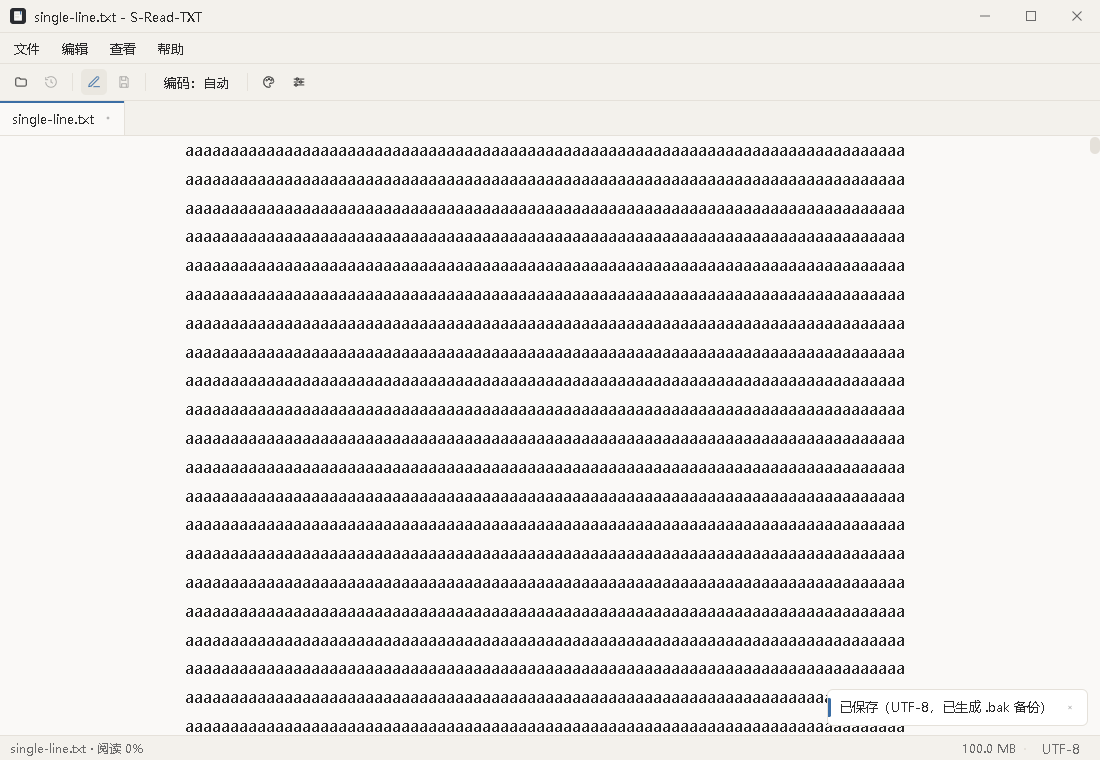
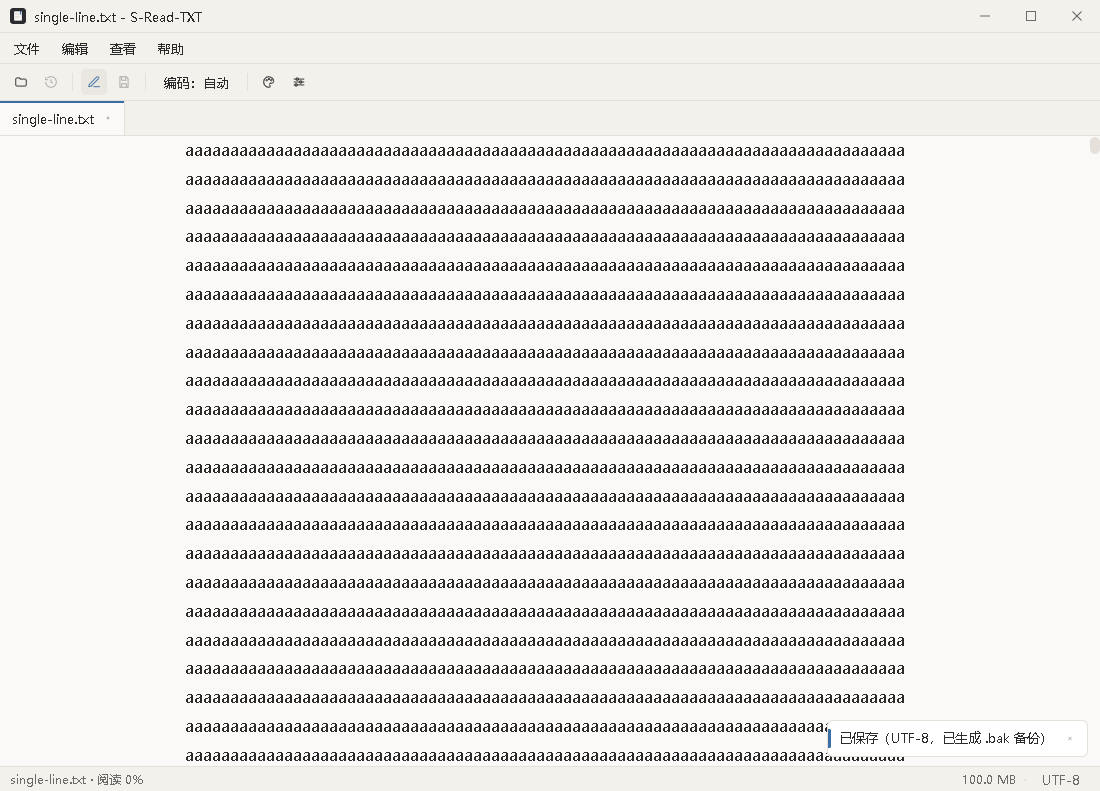
docs(ai): 6f 全量自检 18/18 与回归修复记录

diff --git a/docs/plan/progress.md b/docs/plan/progress.md
@@ -235,3 +235,12 @@
 ### 6e E2E 扩展（本切片）
 - `smoke-settings.mjs` 修正与增强：默认页签已改为「常规」→ 快捷键操作前显式切换页签（S1/S9/reopenSettings）；**首启引导模态会挂起全局快捷键** → 按真实用户路径勾选「不再显示」并关闭（S8/S9/S11/S12 恢复）；`openPath` 改 fire-and-forget 防 WebView2 `Promise was collected`；S13 改为真实断言（常规页签字段 / 快捷键行数 / **字号修改实时应用到主窗口**）→ **27/27**。
 - `verify-all.mjs` 新增两步：`E2E 会话恢复（smoke-session）`、`E2E 数据目录引导（smoke-datadir）`；报告仍落盘 `docs/verify/latest.md`。
+
+### 6f 全量自检与回归修复（本切片）
+- 全量自检 **18/18 通过**（189.0s；报告 `docs/verify/latest.md`）——12 套 E2E + 6 个前置门禁全绿（含 100MB 长行 9/9）。
+- **修复真实缺陷（渲染层）**：`ReaderView` 排版变更 effect 内 `version += 1` 同时读写同一 `$state`，被 Svelte 5 依赖收集后自触发死循环（实测每帧数千次，行文本不渲染/渲染管线被持续冲刷）；修复 = `untrack` 包裹内部写入。用临时探针（get_rows 载荷/缓存/计数）二分定位到渲染层后取舍证据，调试钩子已移除。
+- **测试基建（CDP/WebView2 兼容）**：
+  - 新增共享 `openPathDone()`：WebView2 对「直接调用函数返回的 Promise」经 CDP `awaitPromise` 必报 “Promise was collected”（2026-10-02 起实测必现）；10 个套件统一迁移 + 旧 `smoke.mjs` 同步。
+  - 新增共享 `dismissOnboarding()`：首启引导模态会挂起全局快捷键并遮挡 `[role="dialog"]` 选择器（8 个套件因此失败）；按真实用户路径关闭（勾选「不再显示」+ 开始使用）。
+  - `smoke-buttons` D9/D12 的“灰态”断言更新为实测行为（字号±/快捷键…/关于页签，**30/30**）；`smoke-settings` S13 改为真实页签/实时排版断言并修复单引号模板比较 bug（**27/27**）。
+- 证据产物已刷新：`docs/verify/latest.md`、各阶段截图（4b/4c/5）。

diff --git a/docs/verify/latest.md b/docs/verify/latest.md
@@ -1,25 +1,27 @@
 # 全量自检报告（最新一次）
 
-- 时间（UTC）：2026-10-02T09:19:48.477Z
-- 提交：c74444e（未提交变更 4 项）
-- 结果：**16/16 通过**，总耗时 282.5s
+- 时间（UTC）：2026-10-02T10:41:25.354Z
+- 提交：09edc26（未提交变更 22 项）
+- 结果：**18/18 通过**，总耗时 189.0s
 
 | 步骤 | 结果 | 耗时(s) |
 | --- | --- | --- |
-| 编码自检 | ✅ | 0.2 |
-| svelte-check | ✅ | 10.2 |
-| vitest 单测 | ✅ | 3.5 |
-| cargo fmt 检查 | ✅ | 1.1 |
-| cargo test（全目标） | ✅ | 12.9 |
-| Tauri 构建（debug） | ✅ | 16.8 |
-| E2E 编辑（smoke-edit） | ✅ | 9.3 |
-| E2E 查找（smoke-find） | ✅ | 17.2 |
-| E2E 输入法（smoke-ime） | ✅ | 12.0 |
-| E2E 多语言（smoke-i18n） | ✅ | 20.4 |
-| E2E 标题栏（smoke-titlebar） | ✅ | 12.3 |
-| E2E 全按钮（smoke-buttons） | ✅ | 36.3 |
-| E2E 设置窗口（smoke-settings） | ✅ | 41.9 |
-| E2E 快捷键（smoke-shortcuts） | ✅ | 27.2 |
-| E2E 对抗（smoke-abuse） | ✅ | 27.8 |
-| E2E 100MB 长行（smoke-longline） | ✅ | 32.6 |
+| 编码自检 | ✅ | 0.1 |
+| svelte-check | ✅ | 6.8 |
+| vitest 单测 | ✅ | 2.7 |
+| cargo fmt 检查 | ✅ | 0.6 |
+| cargo test（全目标） | ✅ | 8.9 |
+| Tauri 构建（debug） | ✅ | 13.0 |
+| E2E 编辑（smoke-edit） | ✅ | 2.2 |
+| E2E 查找（smoke-find） | ✅ | 4.8 |
+| E2E 输入法（smoke-ime） | ✅ | 2.9 |
+| E2E 多语言（smoke-i18n） | ✅ | 7.5 |
+| E2E 标题栏（smoke-titlebar） | ✅ | 3.1 |
+| E2E 全按钮（smoke-buttons） | ✅ | 28.5 |
+| E2E 设置窗口（smoke-settings） | ✅ | 27.8 |
+| E2E 快捷键（smoke-shortcuts） | ✅ | 23.5 |
+| E2E 会话恢复（smoke-session） | ✅ | 9.5 |
+| E2E 数据目录引导（smoke-datadir） | ✅ | 2.8 |
+| E2E 对抗（smoke-abuse） | ✅ | 26.8 |
+| E2E 100MB 长行（smoke-longline） | ✅ | 17.4 |
 

diff --git a/CHANGELOG.md b/CHANGELOG.md
@@ -46,4 +46,5 @@
 - 菜单「粘贴」触发 WebView 剪贴板权限弹窗且读取失败：复制/剪切/粘贴改经官方 `tauri-plugin-clipboard-manager`（Rust 侧读写，无浏览器弹窗；依赖精确锁定）
 - 「localhost 拒绝连接」空白页（已根治）：Tauri 以 `custom-protocol` feature 区分打包（内嵌资源）与开发（连 `http://localhost:1420`）模式，裸 `cargo build`/`cargo test` 未启用该 feature，产物被编译为开发语义；已在 `Cargo.toml` 常开该 feature，任何方式编译的 exe 均可独立运行
 - 替换/全部替换后键盘焦点停留在查找条，`Ctrl+Z` 到不了编辑器：两个动作成功后归还编辑器焦点
+- 阅读区行文本不渲染、渲染管线被持续冲刷：`ReaderView` 排版变更 effect 内 `version += 1` 同时读写同一 `$state`，被 Svelte 5 依赖收集后形成自触发循环（实测每帧数千次执行，行文本迟迟不出现）；改为 `untrack` 包裹内部状态写入
 - 会话滚动恢复失效（两处真实缺陷）：①滚动记忆只在切换标签时写入，滚动后直接退出保存的是旧位置——改为滚动时实时记录；②冷启动恢复早于首屏渲染时容器无可滚动高度，`scrollTop` 赋值被钳到 0——新增逐帧重试直至生效
